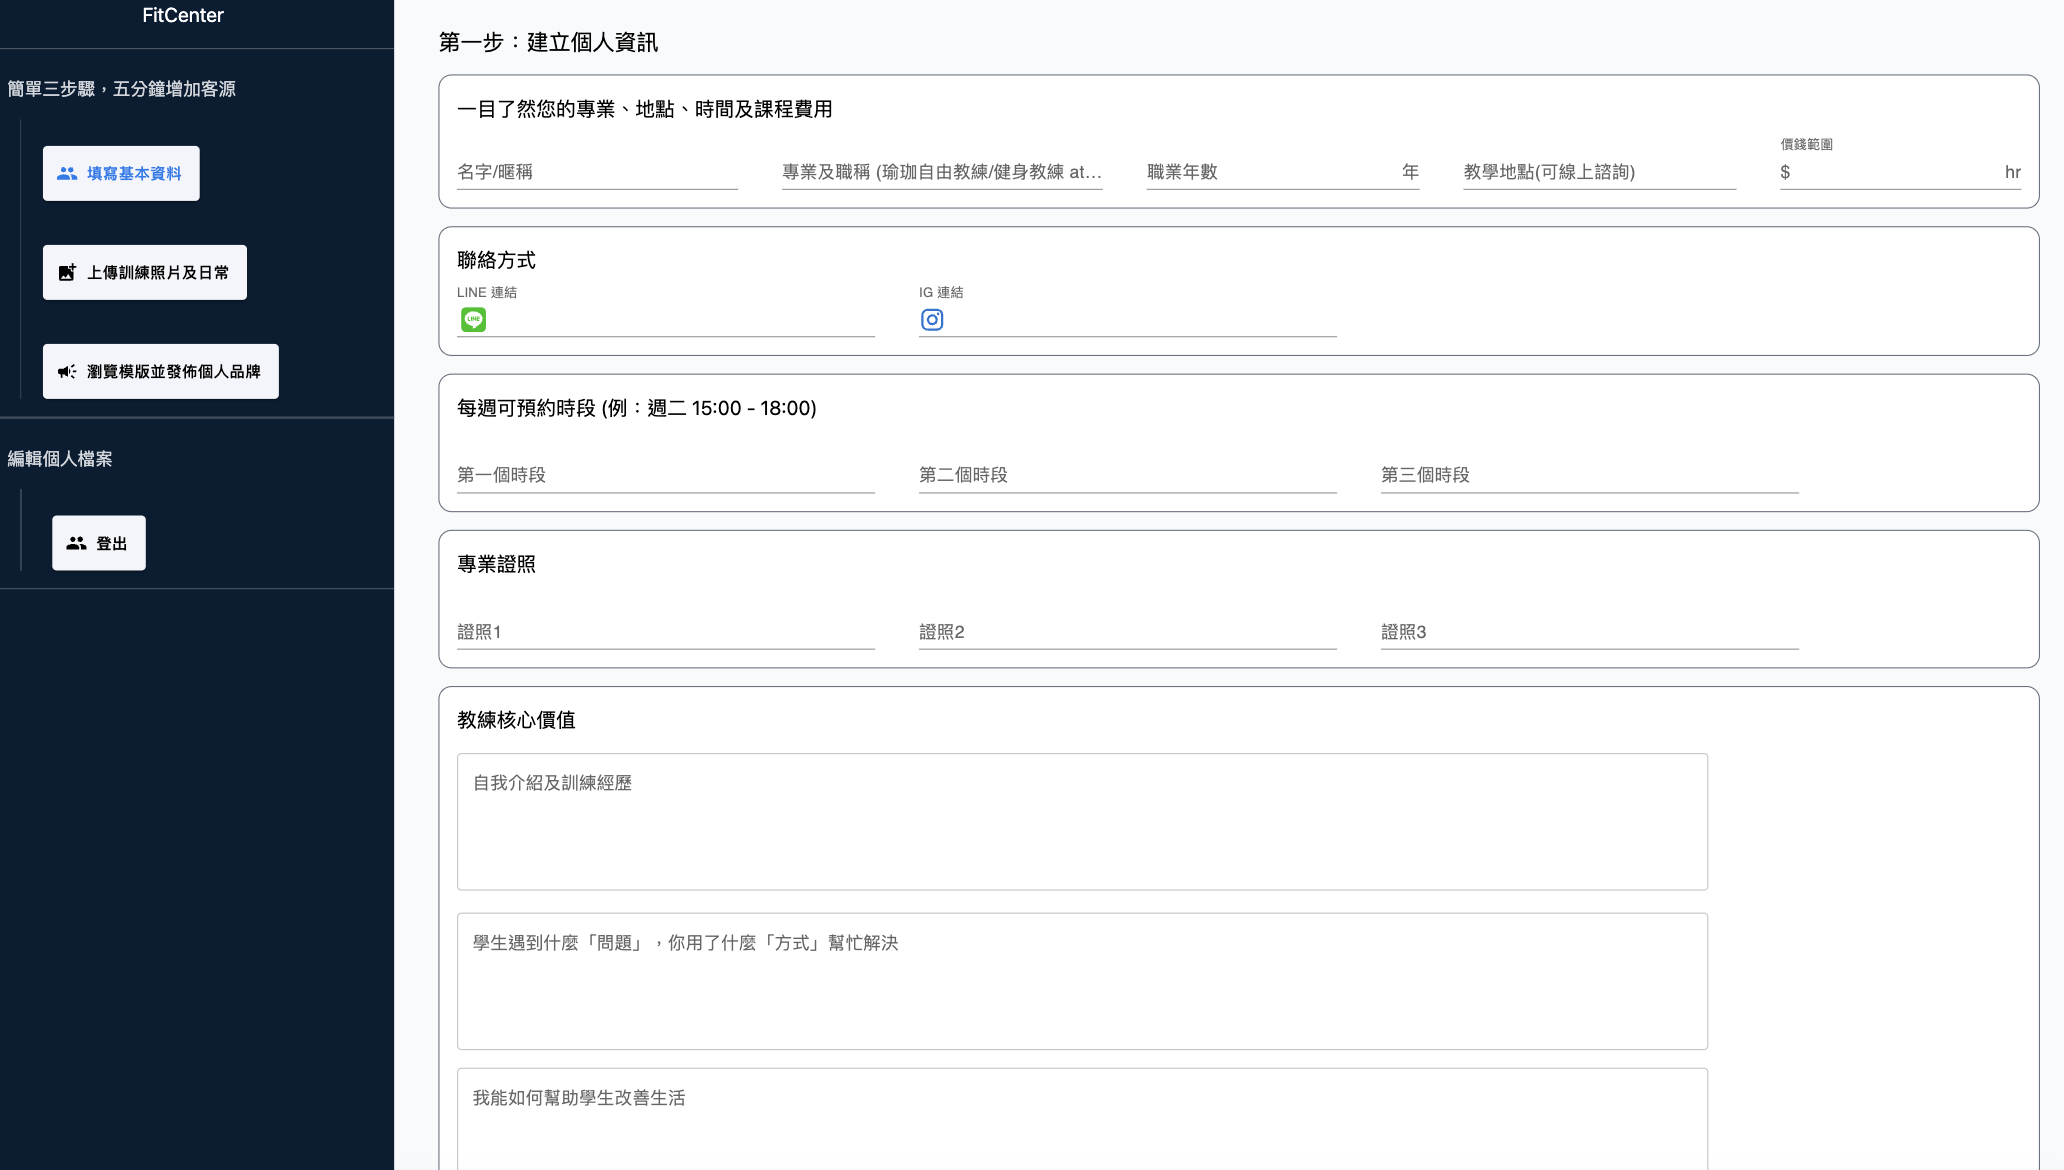
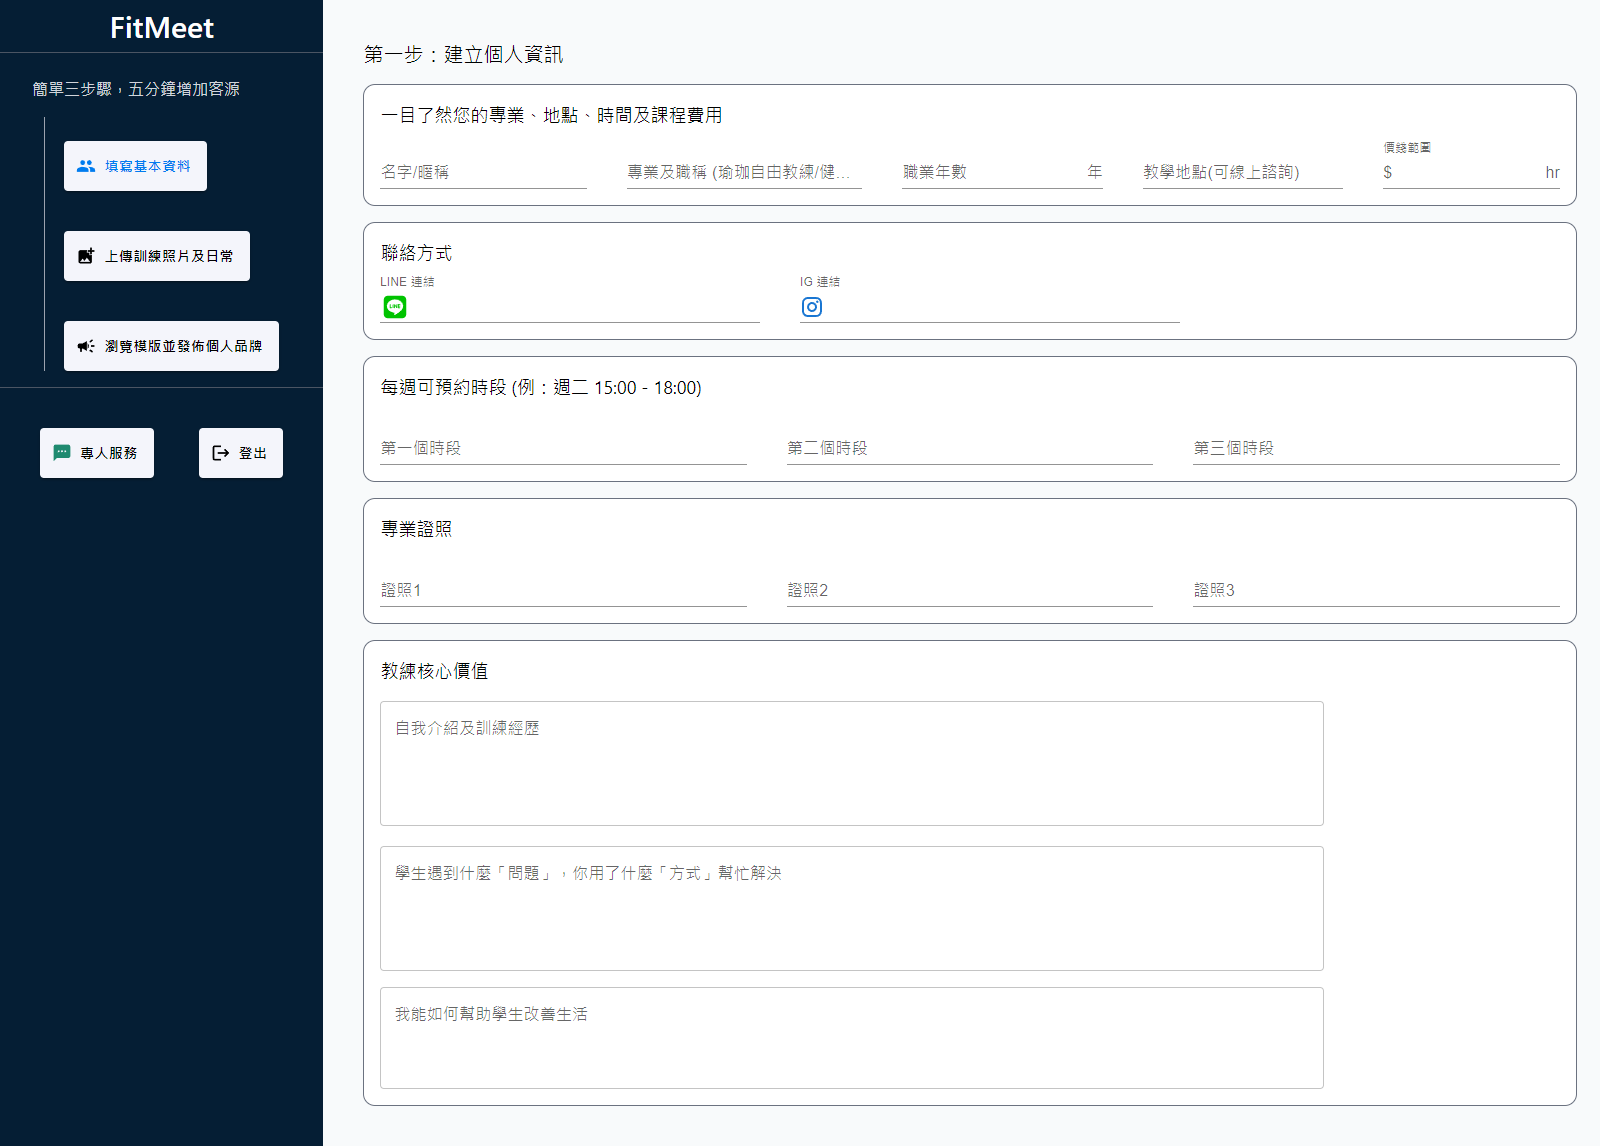
RWD

diff --git a/src/Pages/Trainer/Nav_Trainer.tsx b/src/Pages/Trainer/Nav_Trainer.tsx
@@ -8,7 +8,8 @@ import { useState } from "react";
 import { signOut } from "firebase/auth";
 import { TreeDeciduous } from "lucide-react";
 import { Link } from "react-router-dom";
-
+import LogoutIcon from "@mui/icons-material/Logout";
+import SmsIcon from "@mui/icons-material/Sms";
 const Nav_Trainer = () => {
   const { buildStep, setBuildStep } = useStateContext();
   const handleSignOut = () => {
@@ -27,12 +28,12 @@ const Nav_Trainer = () => {
   };
 
   return (
-    <div className="w-1/5  bg-[#051e34] flex flex-col items-center select-none">
+    <div className="w-1/5  bg-[#051e34] flex flex-col items-center select-none ">
       {/* Logo Title */}
       <Link to="/">
         <div className="flexCenter space-x-3 my-2">
-          <TreeDeciduous color="#149e7a" size={40} />
-          <p className="text-3xl font-bold text-white">FitInfo</p>
+          {/* <TreeDeciduous color="#149e7a" size={40} /> */}
+          <p className="text-3xl font-semibold text-white">FitMeet</p>
         </div>
       </Link>
 
@@ -63,7 +64,7 @@ const Nav_Trainer = () => {
               onClick={() => setBuildStep(1)}
             >
               <p
-                className={`whitespace-nowrap ${
+                className={`whitespace-nowrap font-bold ${
                   buildStep === 1 ? "text-[#007CEF]" : "text-black"
                 }`}
               >
@@ -88,7 +89,7 @@ const Nav_Trainer = () => {
               onClick={() => setBuildStep(2)}
             >
               <p
-                className={`whitespace-nowrap ${
+                className={`whitespace-nowrap font-bold ${
                   buildStep === 2 ? "text-[#007CEF]" : "text-black"
                 }`}
               >
@@ -113,7 +114,7 @@ const Nav_Trainer = () => {
               onClick={() => setBuildStep(3)}
             >
               <p
-                className={`whitespace-nowrap ${
+                className={`whitespace-nowrap font-bold ${
                   buildStep === 3 ? "text-[#007CEF]" : "text-black"
                 }`}
               >
@@ -123,34 +124,40 @@ const Nav_Trainer = () => {
           </div>
         </div>
       </div>
-      <div className="border-t border-b border-gray-600  w-full">
-        {/* <p className="text-gray-300 text-1xl pt-6 pl-8">編輯個人檔案</p> */}
-        <div className="px-7 space-y-10 flex pb-4">
-          {/* <div
-            className={` w-[1px] self-stretch bg-gray-400 opacity-100 dark:opacity-50 ml-4 mt-4`}
-          ></div> */}
-          <div className="w-full flexCenter p-10">
-            <Button
-              variant="contained"
+
+      {/* <p className="text-gray-300 text-1xl pt-6 pl-8">編輯個人檔案</p> */}
+
+      <div className="w-full flexBetween mt-10 px-10">
+        <Button
+          variant="contained"
+          sx={{
+            height: 50,
+            backgroundColor: "#F4F5FB",
+            ":hover": { backgroundColor: "#F4F5FB" },
+          }}
+          startIcon={
+            <SmsIcon
               sx={{
-                height: 50,
-                backgroundColor: "#F4F5FB",
-                borderRadius: "100",
-                ":hover": { backgroundColor: "#F4F5FB" },
+                color: "#1F8A70"
               }}
-              startIcon={
-                <PeopleIcon
-                  sx={{
-                    color: buildStep === 1 ? "#000" : "#000",
-                  }}
-                />
-              }
-              onClick={handleSignOut}
-            >
-              <p className={`whitespace-nowrap text-black font-bold`}>登出</p>
-            </Button>
-          </div>
-        </div>
+            />
+          }
+          onClick={() => (window.location.href = "mailto:lu001224@gmail.com")}
+        >
+          <p className={`whitespace-nowrap text-black font-bold`}>專人服務</p>
+        </Button>
+        <Button
+          variant="contained"
+          sx={{
+            height: 50,
+            backgroundColor: "#F4F5FB",
+            ":hover": { backgroundColor: "#F4F5FB" },
+          }}
+          startIcon={<LogoutIcon sx={{color:"#000"}}/>}
+          onClick={handleSignOut}
+        >
+          <p className={`whitespace-nowrap text-black font-bold`}>登出</p>
+        </Button>
       </div>
     </div>
   );

diff --git a/src/Components/Navbar.tsx b/src/Components/Navbar.tsx
@@ -1,5 +1,6 @@
 import { NavLink } from "react-router-dom";
-import { TreeDeciduous } from "lucide-react";
+import MenuIcon from '@mui/icons-material/Menu';
+import { IconButton } from "@mui/material";
 interface NavbarProps {}
 
 const Navbar = ({}: NavbarProps) => {
@@ -29,12 +30,11 @@ const Navbar = ({}: NavbarProps) => {
   ];
 
   return (
-    <div className="flexBetween w-full h-[65px] fixed top-0 z-30 bg-[#fafafa] flex justify-end items-center pr-20 space-x-6 select-none ">
+    <div className="flexBetween w-full h-[65px] fixed top-0 z-30 bg-[#fafafa] flex justify-end items-center sm:pr-20 space-x-6 select-none ">
       <div className="ml-10 flexCenter space-x-3">
-        <TreeDeciduous color="#149e7a" size={40}/>
-        <p className="text-3xl font-bold">FitInfo</p>
+        <p className="text-3xl font-semibold">FitMeet</p>
       </div>
-      <div className="flex space-x-4">
+      <div className="hidden sm:flex  space-x-4">
         {navOptions.map(({ route, optionTw, optionEn }, index) => (
           <NavLink
             to={route}
@@ -46,6 +46,11 @@ const Navbar = ({}: NavbarProps) => {
             </div>
           </NavLink>
         ))}
+      </div>
+      <div className="sm:hidden">
+          <IconButton>
+            <MenuIcon/>
+          </IconButton>
       </div>
     </div>
   );

diff --git a/src/Pages/Home/Hero.tsx b/src/Pages/Home/Hero.tsx
@@ -8,17 +8,17 @@ const Hero = ({ }: HeroProps) => {
   const navigate = useNavigate();
 
   return (
-    <div className=" h-[650px] mt-[65px] flex items-end relative hero-image ">
+    <div className=" h-[650px] mt-[65px] flex items-end relative hero-image w-full">
       {/* 左側教練 */}
 
 
       {/* 中間文字 */}
       <div className="absolute top-1/2 left-1/2 transform -translate-x-1/2 -translate-y-1/2 space-y-2">
-        <p className="text-5xl text-white font-black mt-20">教練品牌升級</p>
-        <p className="text-5xl text-white ml-16 font-black">學生精準匹配</p>
+        <p className="text-5xl text-white font-black mt-20 whitespace-nowrap">教練品牌升級</p>
+        <p className="text-5xl text-white ml-16 font-black whitespace-nowrap">學生精準匹配</p>
       </div>
 
-      <h1 className=" text-white text-3xl mb-10 w-full ml-20 text-center font-extrabold"><CheckCircleOutlineIcon /> 流通產業資訊 <CheckCircleOutlineIcon />達成目標體態 <CheckCircleOutlineIcon />滿足心靈健康</h1>
+      <h1 className="hidden sm:block text-white text-3xl mb-10 w-full ml-20 text-center font-extrabold"><CheckCircleOutlineIcon /> 流通產業資訊 <CheckCircleOutlineIcon />達成目標體態 <CheckCircleOutlineIcon />滿足心靈健康</h1>
 
 
     </div>

diff --git a/src/Pages/Home/Feature.tsx b/src/Pages/Home/Feature.tsx
@@ -1,6 +1,6 @@
-import { useEffect, useState } from "react";
+import { useState } from "react";
 import { useStateContext } from "../../ContextProvider/Contexts";
-import { useNavigate } from "react-router-dom";
+
 import TrainerFirstPic from "../../assets/firstT.png";
 import TrainerSecondPic from "../../assets/secondT.png";
 import TrainerThirdPic from "../../assets/third1.png";
@@ -11,7 +11,7 @@ import ClientSecond2 from "../../assets/secondCC.png";
 interface FeatureProps {}
 
 const Feature = ({}: FeatureProps) => {
-  const navigate = useNavigate();
+  
 
   const { isStudent, isTrainer, setIsStudent, setIsTrainer } =
     useStateContext();
@@ -29,14 +29,9 @@ const Feature = ({}: FeatureProps) => {
     setIsTrainer(false);
   };
 
-  // useEffect(() => {
-  //   const localName = localStorage.getItem("name");
-  // }, []);
-
-  console.log(trainerExplainStep);
 
   return (
-    <div className="w-full h-fit ">
+    <div className="w-full h-fit select-none">
       <div className="mt-5 ml-10 flexCenter space-x-72">
         <button
           className={`w-[300px] h-[80px]  border-black rounded-xl mt-4 font-extrabold ${

diff --git a/src/Pages/Trainer/TrainerFirst.tsx b/src/Pages/Trainer/TrainerFirst.tsx
@@ -11,7 +11,7 @@ const TrainerFirst = () => {
   } = useTrainerContext();
 
   return (
-    <div className="flex flex-col space-y-4">
+    <div className="flex flex-col space-y-4 select-none">
       <p className="text-xl ">第一步：建立個人資訊</p>
       <div className="border border-gray-500 p-4 rounded-xl bg-white space-y-3 ">
         <p className="text-lg ">一目了然您的專業、地點、時間及課程費用</p>

diff --git a/src/App.css b/src/App.css
@@ -4,6 +4,7 @@
 }
 .hero-image {
   height: 50%;
+  width: 100%;
   background-position: top;
   background-repeat: no-repeat;
   background-size: cover;
